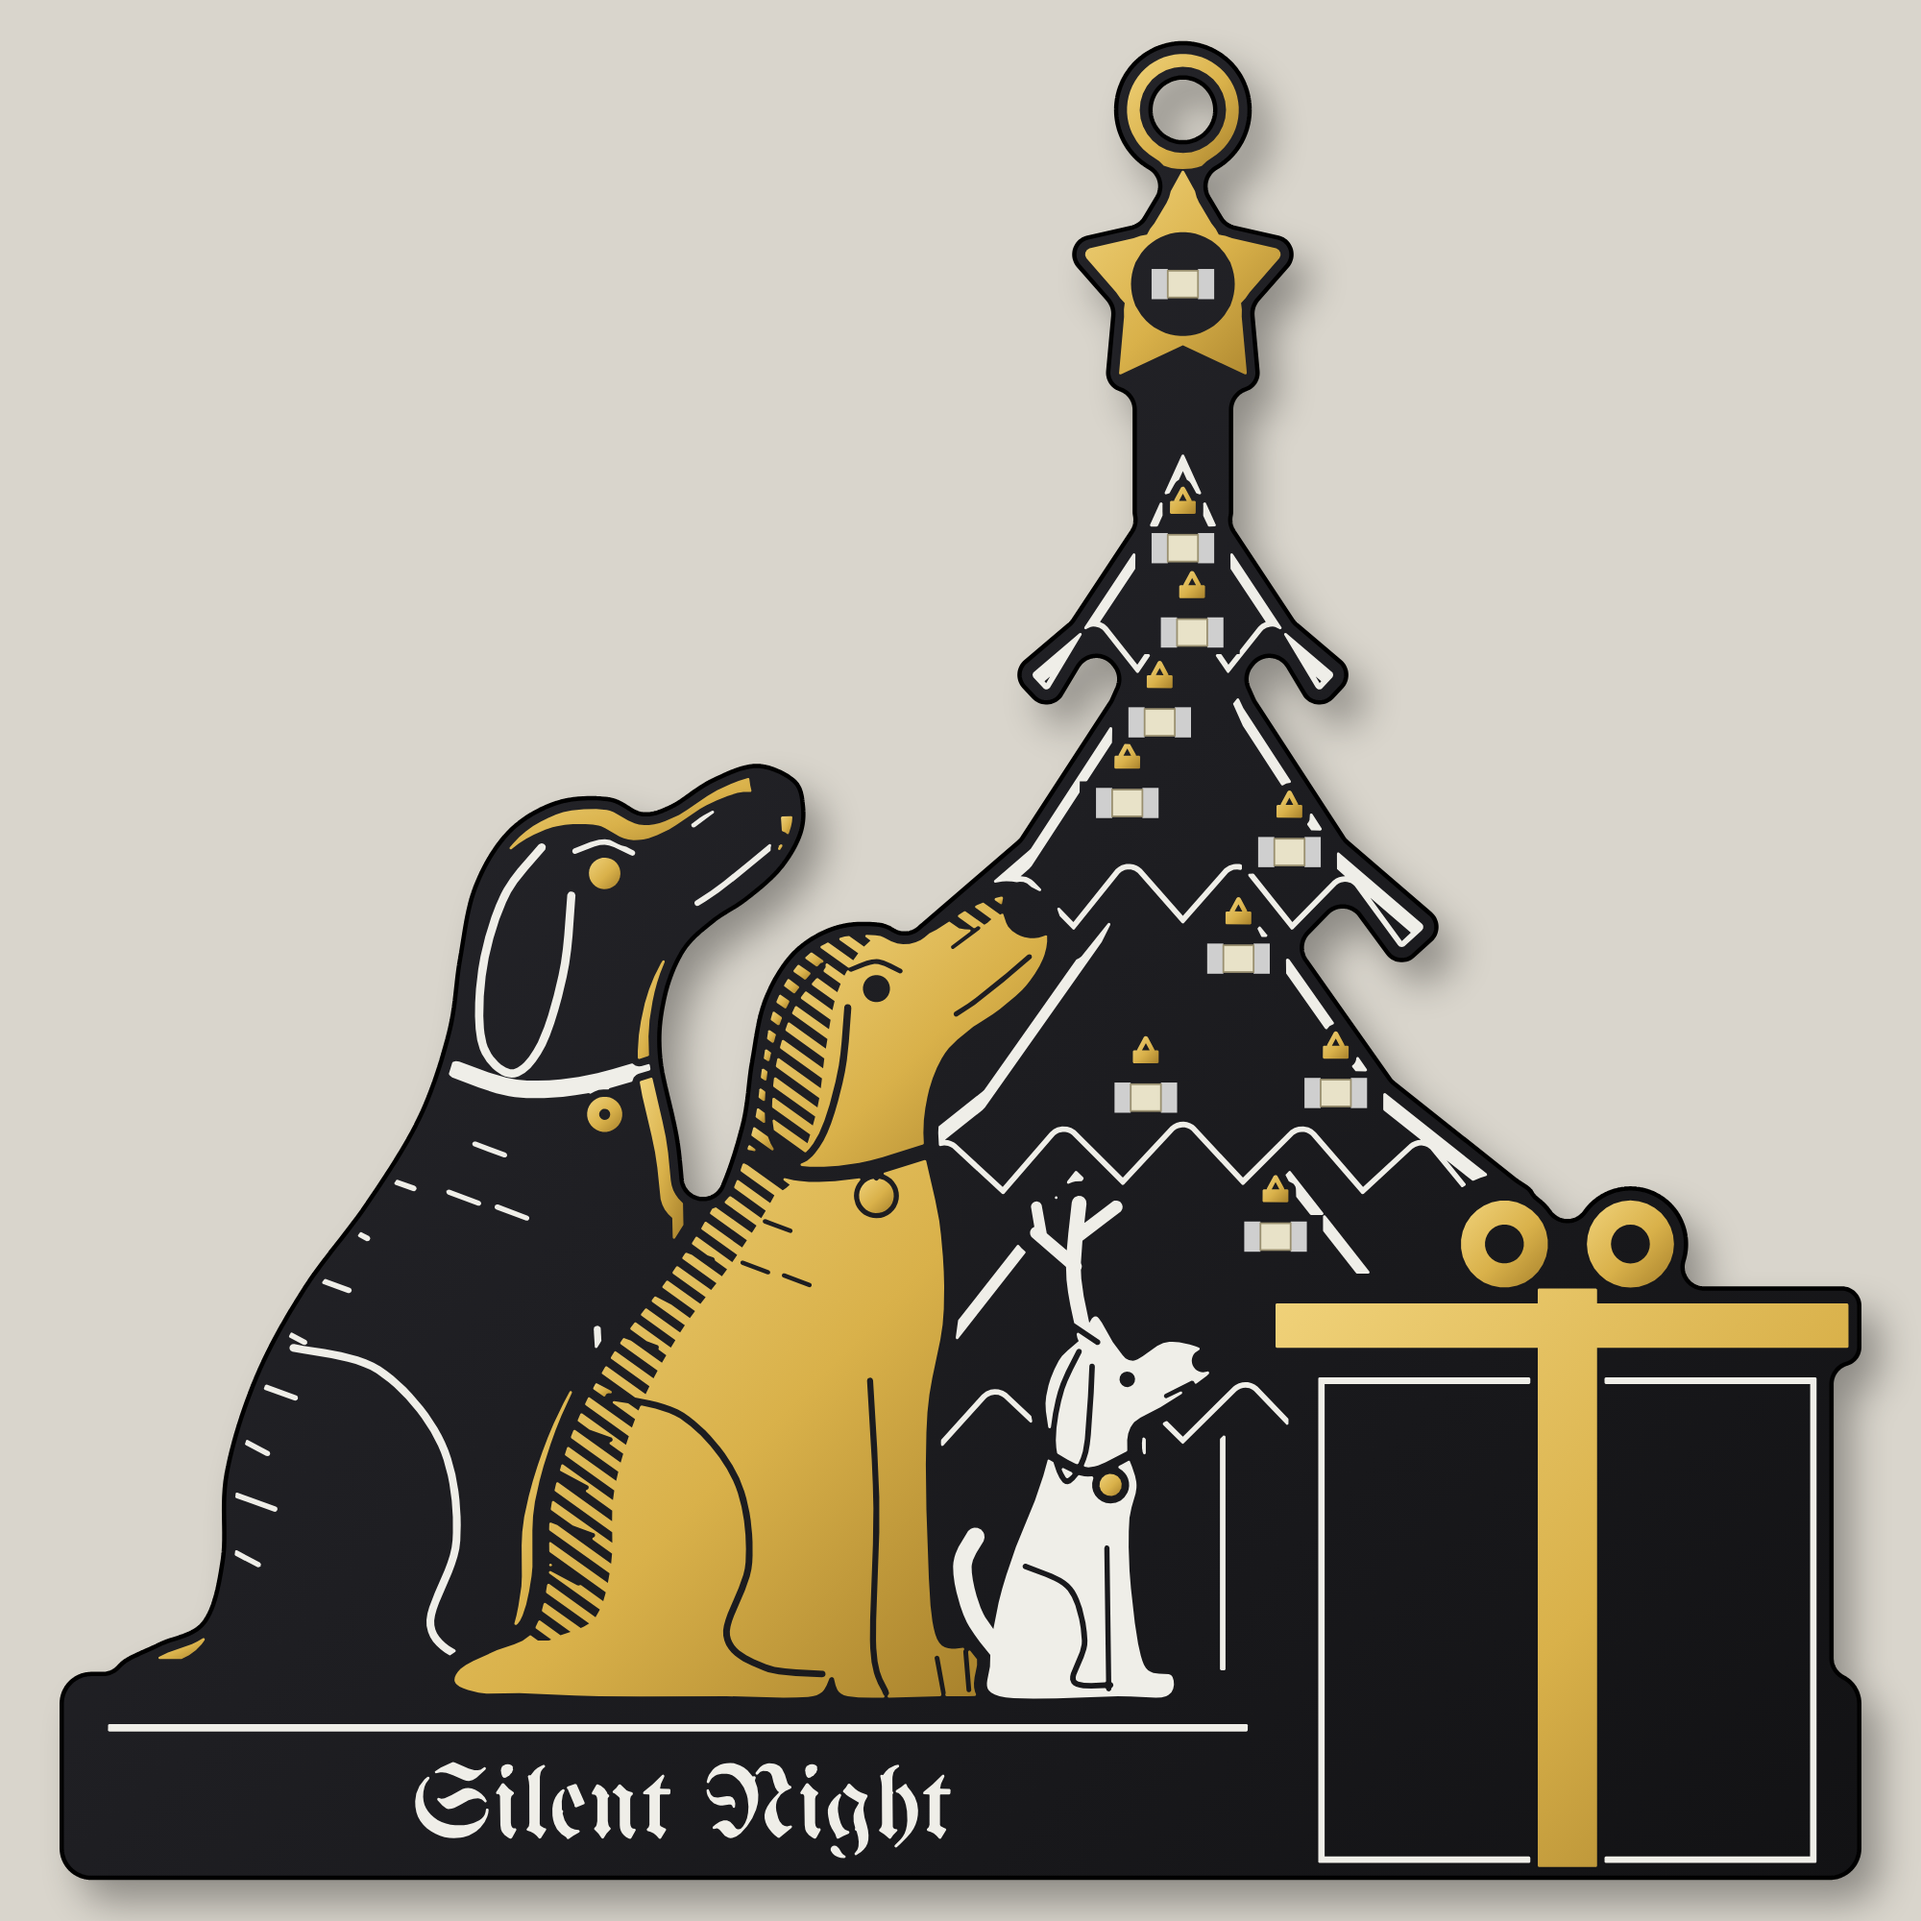
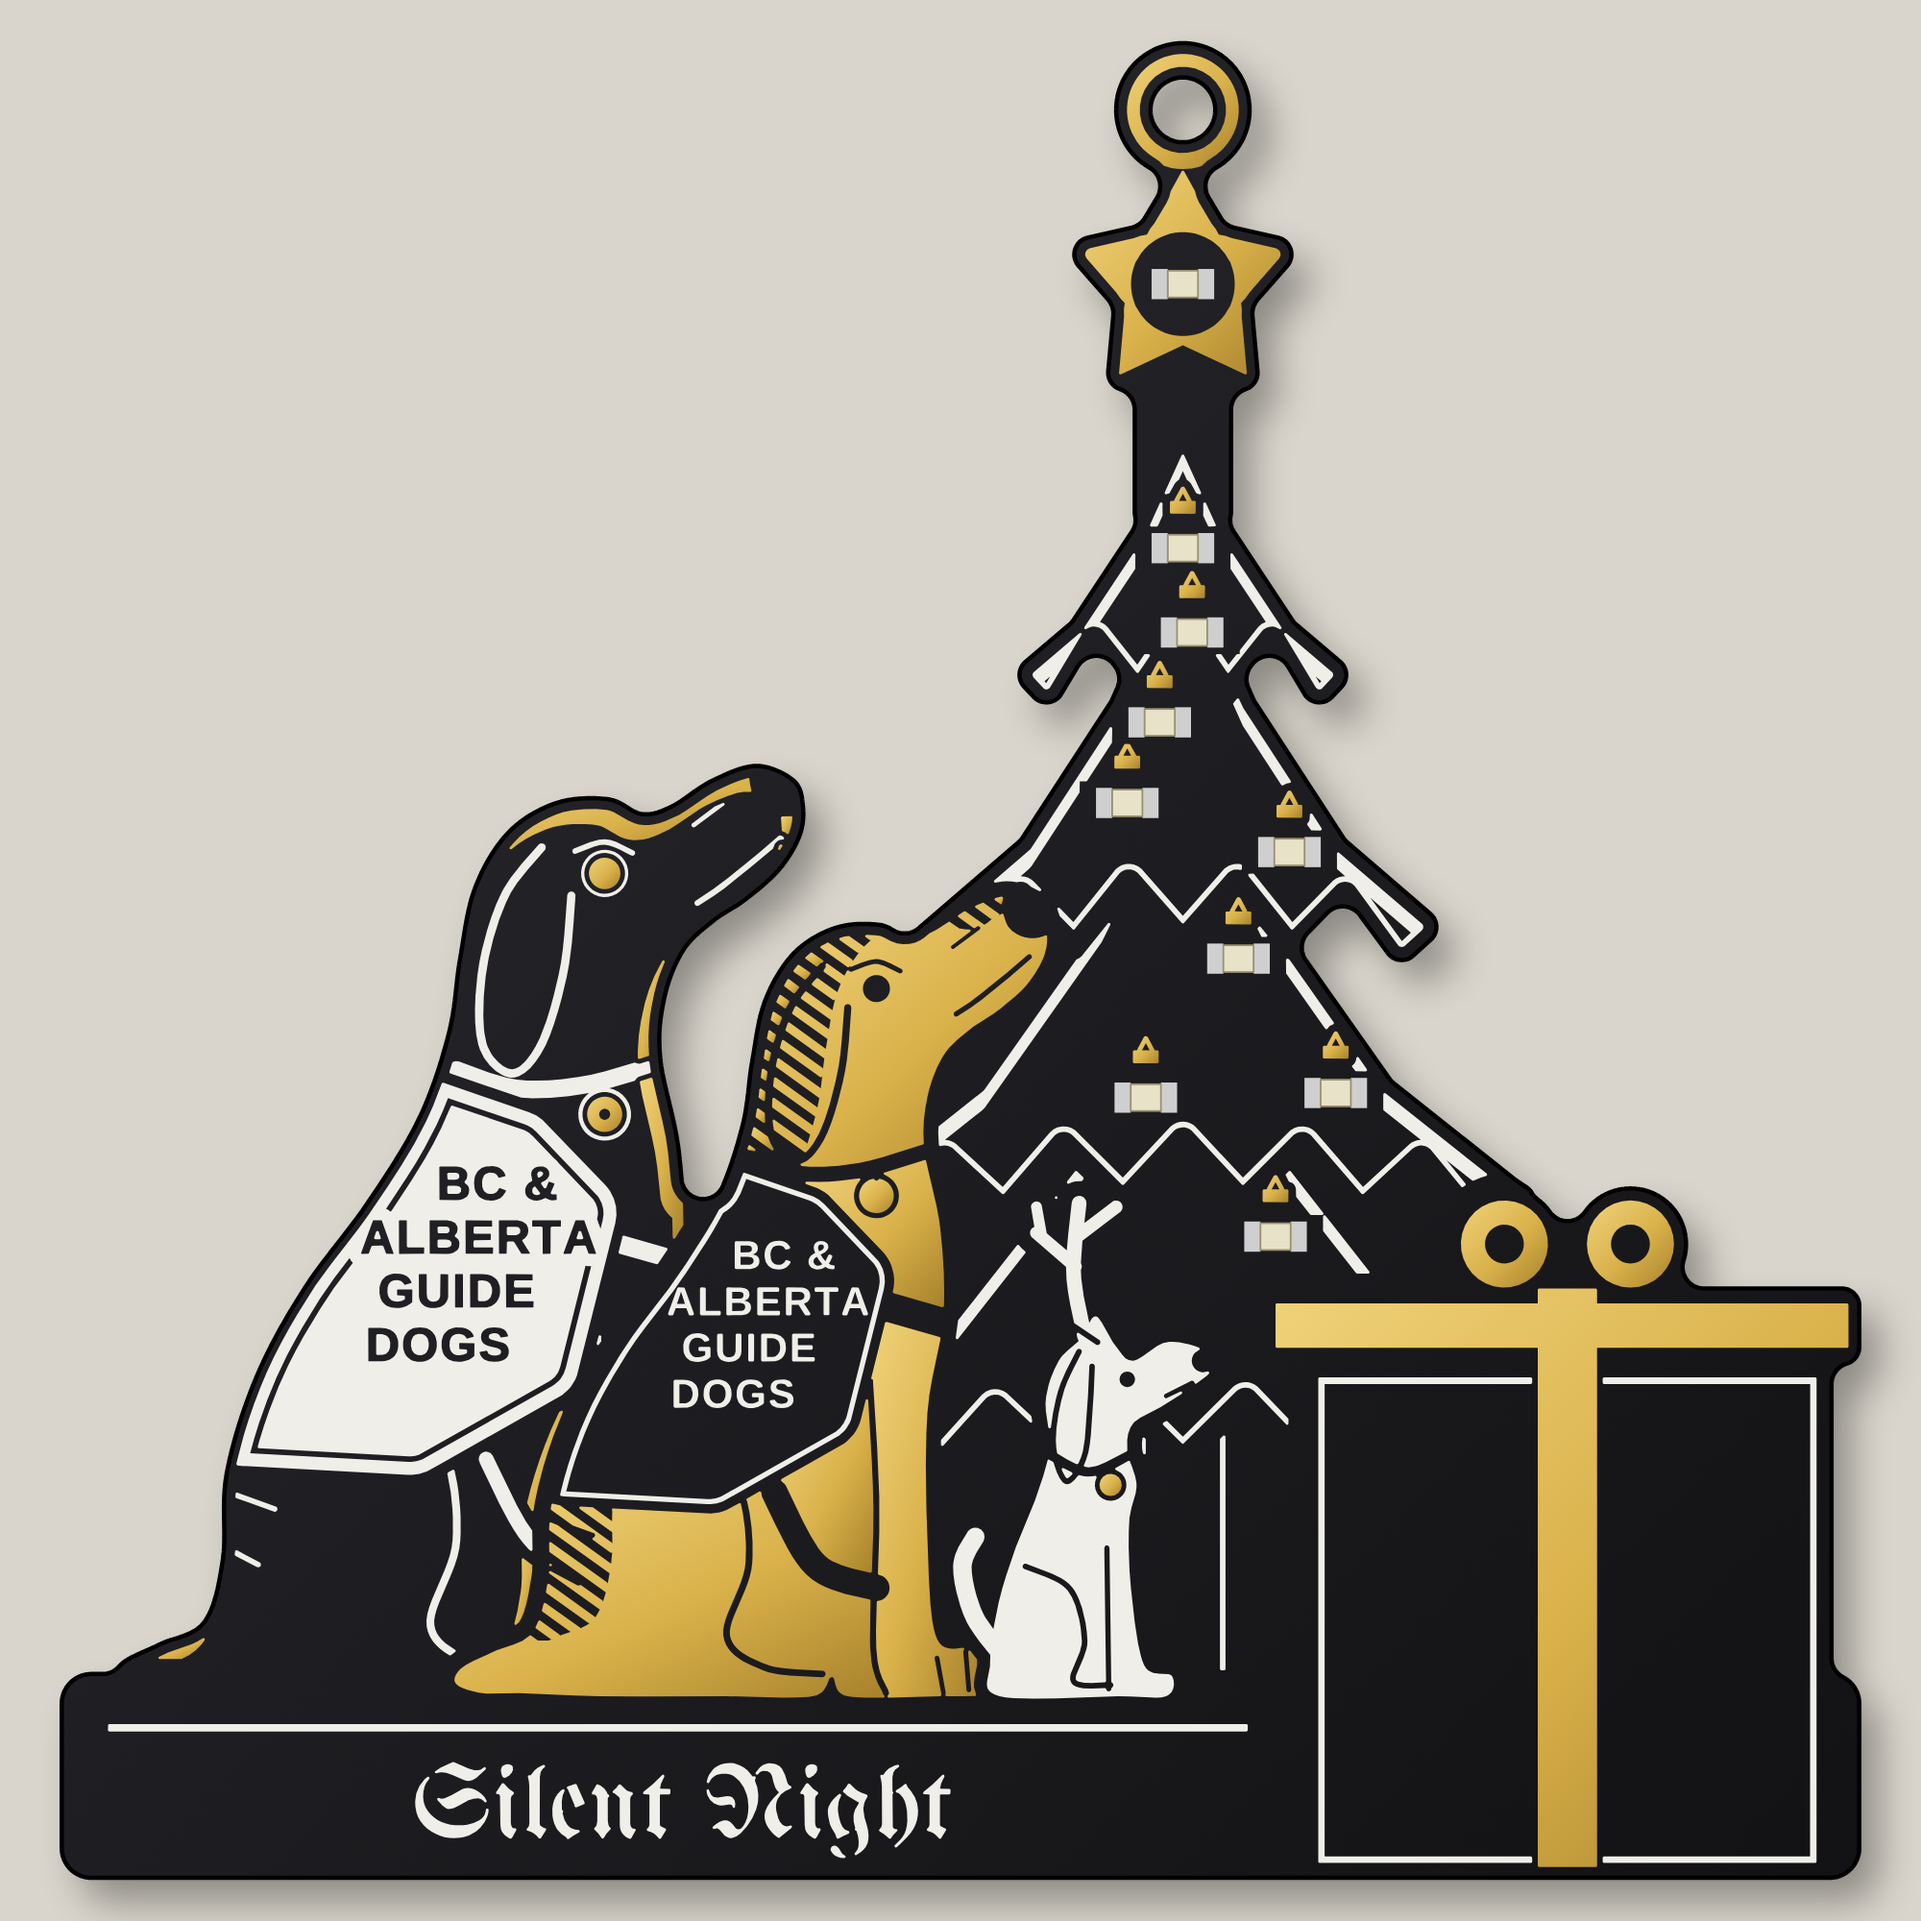
Add BC & Alberta Guide Dogs jackets to the two Labs
Claude-Session: https://claude.ai/code/session_01LWeVxTjGJUc5PEY3V1Ku58

Changed region(s): [[0.124, 0.558, 0.496, 0.899]]

diff --git a/pcb-art/labrador-ornament/source/build_ornament.py b/pcb-art/labrador-ornament/source/build_ornament.py
@@ -112,8 +112,8 @@ class FlatPen(BasePen):
         self.cur = []
     _endPath = _closePath
 
-def text_geom(s, x, y_base, cap_h, center=True, track=0.0):
-    f = TTFont(FONT)
+def text_geom(s, x, y_base, cap_h, center=True, track=0.0, font=None):
+    f = TTFont(font or FONT)
     gs = f.getGlyphSet(); cmap = f.getBestCmap()
     upm = f["head"].unitsPerEm
     capref = f["OS/2"].sCapHeight or 0.7 * upm
@@ -208,7 +208,17 @@ def place(g, sc, dx):
 # black dog: bigger, behind and to the left.  yellow dog: in front, nearer the tree.
 B = dict(sc=1.0, dx=-6.6)
 Y = dict(sc=0.86, dx=7.0)
+# ---- guide dog jackets (drawn once in the dog's own coordinates, then placed on both Labs)
+SANS = "/usr/share/fonts/truetype/liberation/LiberationSans-Bold.ttf"
+jk_raw = Polygon([(27.0, 55.8), (13.0, 72.0), (16.5, 77.6), (27.5, 78.2), (36.0, 73.4), (38.6, 63.0), (34.0, 58.2)]).buffer(-2.5, join_style=1).buffer(2.5, join_style=1).intersection(dog)
+strap_raw = unary_union([stroke([(36.8, 65.0), (42.4, 66.6)], 1.5, smooth=False), stroke([(31.0, 77.0), (33.6, 81.6), (37.4, 83.0)], 1.3)]).intersection(dog).difference(jk_raw)
+jk_text_raw = unary_union([text_geom(t, x, y, 1.75, font=SANS, track=0.04) for t, x, y in
+                           [("BC &", 31.6, 63.0), ("ALBERTA", 30.6, 65.9), ("GUIDE", 29.4, 68.8), ("DOGS", 28.4, 71.7)]])
+print("JACKET", [round(v,1) for v in jk_raw.bounds], "TEXT", [round(v,1) for v in jk_text_raw.bounds], "fits", jk_raw.buffer(-0.6).contains(jk_text_raw))
+dog_dark = dog_dark.difference(jk_raw.buffer(0.3))
 bdog, bdark = place(dog, **B), place(dog_dark, **B)
+bjk, bjk_text, bstrap = place(jk_raw, **B), place(jk_text_raw, **B), place(strap_raw, **B)
+yjk, yjk_text, ystrap = place(jk_raw, **Y), place(jk_text_raw, **Y), place(strap_raw, **Y)
 ydog, ydark, ytag = place(dog, **Y), place(dog_dark, **Y), place(tag, **Y)
 
 # ---- tree + star + hanging eyelet
@@ -327,7 +337,9 @@ gapw = wdog.buffer(0.7)
 yin = ydog.intersection(safe_cu)
 yshade = yin.difference(affinity.translate(yin, 3.4, -0.8)).intersection(box(0, 0, 100, BASE_Y - 3.0))   # side facing away from the star
 ygold = unary_union([yin.difference(yshade), yshade.intersection(hatch)]).difference(ydark)
-ygold = unary_union([ygold, ytag.difference(circle(*ytag.centroid.coords[0], 0.3))]).difference(gapw)
+ygold = unary_union([ygold.difference(yjk.buffer(0.15)).difference(ystrap.buffer(0.15)), ytag.difference(circle(*ytag.centroid.coords[0], 0.3))]).difference(gapw)
+_yj = yjk.intersection(safe_silk).buffer(-0.35)
+yjk_silk = unary_union([_yj.difference(_yj.buffer(-0.28)), yjk_text])
 
 # ---- BLACK DOG: black mask. White engraved lines, and a thin gold rim where the star light catches it
 gapy = ydog.buffer(0.9)                     # dark halo that separates the dogs
@@ -338,9 +350,11 @@ brim = brim.intersection(box(0, 0, 100, BASE_Y - 2.0))
 b_eye = place(circle(37.4, 45.4, 0.85), **B)
 b_tag = place(tag, **B)
 b_eye_gold = b_eye.difference(affinity.translate(b_eye, -0.35, 0.45).buffer(-0.1))
-bgold = unary_union([brim.difference(bdark.buffer(0.1)), b_eye, b_tag.difference(circle(*b_tag.centroid.coords[0], 0.3))]).difference(gapy)
+bgold = unary_union([brim.difference(bdark.buffer(0.1)).difference(bjk.buffer(0.4)).difference(bstrap.buffer(0.3)), b_eye, b_tag.difference(circle(*b_tag.centroid.coords[0], 0.3))]).difference(gapy)
 bsilk = bdark.difference(b_eye.buffer(0.3)).difference(place(ring(37.4, 58.4, 1.25, 0.32), **B)).intersection(bdog.buffer(-0.6)).difference(gapy)
 bsilk = bsilk.difference(place(circle(46.9, 40.7, 2.2), **B))
+_bj = bjk.buffer(-0.3)
+bsilk = bsilk.union(_bj.difference(bjk_text.buffer(0.03)).difference(_bj.buffer(-0.7).difference(_bj.buffer(-1.0)).difference(bjk_text.buffer(0.7)))).union(bstrap.buffer(-0.25))
 bsilk = bsilk.union(place(ring(37.4, 45.4, 1.15, 0.25), **B)).union(place(ring(37.4, 58.4, 1.3, 0.25), **B)).difference(gapy)
 
 # ---- TREE: black, white edge lines on every tier, heavier where the top of a tier catches the light
@@ -400,8 +414,8 @@ copper = gold_open.buffer(0.15).intersection(board.buffer(-0.4)).difference(led_
 copper = unary_union([copper, yin.difference(led_keep).difference(gapw)])
 gold_open = gold_open.intersection(copper.buffer(-0.1))
 
-sil_all = unary_union([bsilk.difference(gapw), tree_silk, snow, text, wsilk, psilk])
-sil_all = sil_all.difference(copper.buffer(0.25)).difference(led_keep).difference(bauble_gold.buffer(0.4)).intersection(safe_silk)
+sil_all = unary_union([bsilk.difference(gapw), yjk_silk.difference(gapw), tree_silk, snow, text, wsilk, psilk])
+sil_all = sil_all.difference(gold_open.buffer(0.25)).difference(led_keep).difference(bauble_gold.buffer(0.4)).intersection(safe_silk)
 sil_all = sil_all.buffer(-0.075).buffer(0.075)
 
 # ---------------------------------------------------------------- scale to the final 85 x 85 mm board

diff --git a/pcb-art/labrador-ornament/README.md b/pcb-art/labrador-ornament/README.md
@@ -8,6 +8,7 @@ The board fits inside an **85 x 85 mm** square (83.3 mm wide, 85.0 mm tall). Eve
 **Black solder mask + ENIG finish + white silkscreen.**
 - **Yellow dog:** copper with the mask opened over it, so it comes out gold. Its details are strips of mask left on the copper.
 - **Black dog:** plain black mask with white silkscreen line work, a thin gold rim on the edges facing the star, and a gold eye and tag.
+- **Guide dog jackets:** both Labs wear a training jacket lettered "BC & ALBERTA GUIDE DOGS". The black dog's jacket is solid white silkscreen with the letters left black. The yellow dog's jacket is black mask with a white outline and white letters. The letters are 1.5 mm tall on the black dog and 1.3 mm on the yellow dog, in bold sans. That is above the usual 1.0 mm silkscreen minimum, but ask your fab if unsure. The jackets carry the name only, not the organisation's logo.
 - **White dog:** solid white silkscreen with black details and a gold bell.
 - **Tree:** black mask with white edge lines. The dogs and the present sit in front of it. The star, the hanging eyelet and the present's ribbon are gold.
 
